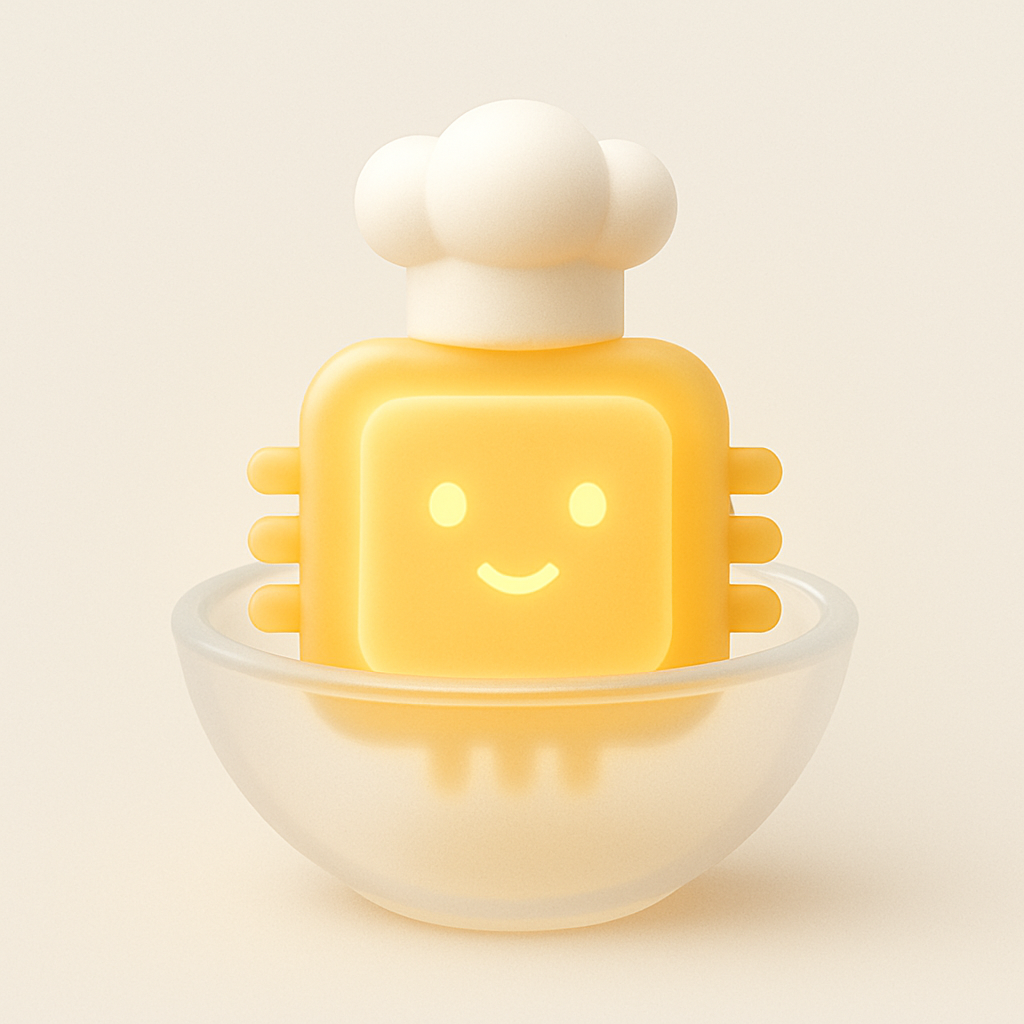
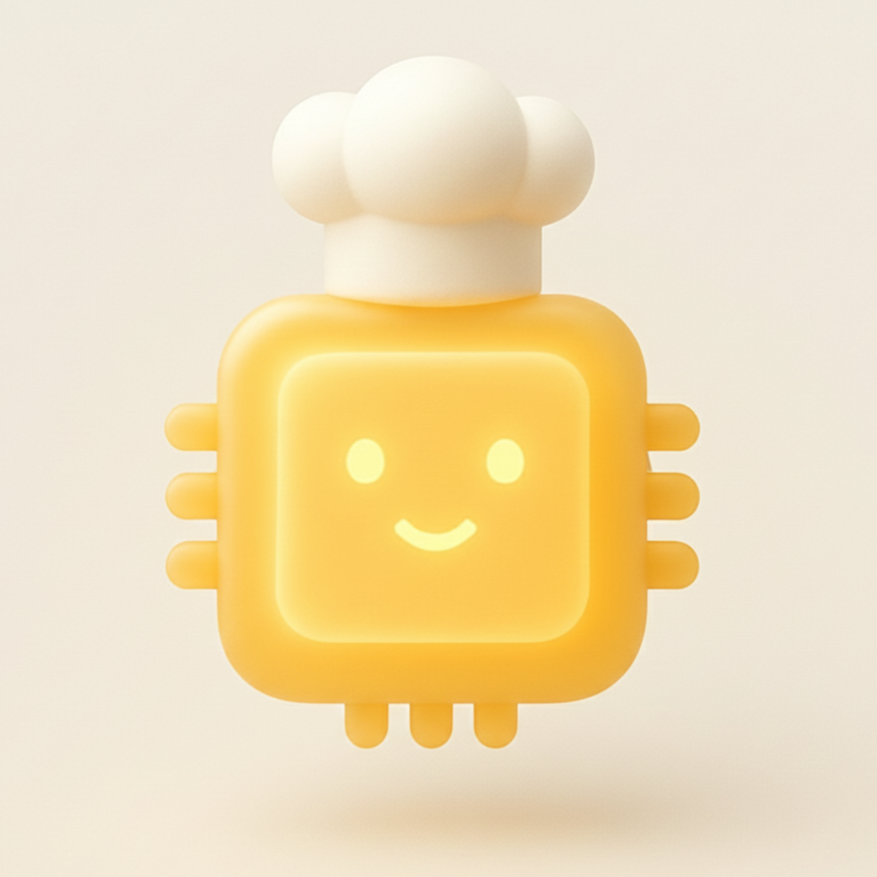
Feat: Chatbot
챗봇 UI 컴포넌트 구현
- ChatbotButton: 챗봇 열기 버튼 컴포넌트
- ChatbotAside: 채팅창 컨테이너 및 트랜지션 효과
- ChatbotWindow: 메인 채팅창 컴포넌트
  - 회원/비회원 채팅 API 연동
  - 채팅 히스토리 자동 로드
  - 자동 스크롤 및 부드러운 애니메이션
  - 타이핑 인디케이터 (점 3개 바운스 효과)
- ChatMessage: 메시지 말풍선 컴포넌트
  - 안내 메시지 전용 스타일 (isSuggest)
  - 마크다운 → HTML 렌더링 (marked)
  - USER/ASSISTANT 메시지 타입별 스타일링
- 챗봇 아바타 이미지 추가

Resolves: #26
Ref: #29

diff --git a/src/components/chat/ChatbotWindow.vue b/src/components/chat/ChatbotWindow.vue
@@ -20,10 +20,9 @@ const messageContainerRef = ref(null)
  * ========================= */
 const SUGGEST_MESSAGE = {
   role: 'ASSISTANT',
-  content: `안녕하세요! 저는 EAT:EUM의 요리 도우미, 이틈이에요 🌱
-서비스 이용 방법이나 요리와 관련된 궁금한 점을 안내해 드려요.
-
-편하게 질문해 주세요!`,
+  content: `당신의 요리 도우미 이틈이에요.
+서비스 이용 방법이나 궁금한 점을 안내해 드려요.`,
+  isSuggest: true,
 }
 
 /* =========================
@@ -115,11 +114,27 @@ onMounted(async () => {
   // 1⃣ 히스토리 먼저 로드
   await loadHistory()
 
-  // 2⃣ 히스토리까지 불러왔는데도 메시지가 없다면
-  if (chatbotStore.messages.length === 0 && !chatbotStore.hasShownSuggest) {
-    chatbotStore.addMessage(SUGGEST_MESSAGE.role, SUGGEST_MESSAGE.content)
-    chatbotStore.markSuggestShown()
+  // 2⃣ 안내 메시지가 없으면 맨 앞에 추가
+  const hasSuggestMessage = chatbotStore.messages.some(msg => msg.isSuggest)
+
+  if (!hasSuggestMessage) {
+    chatbotStore.messages.unshift({
+      role: SUGGEST_MESSAGE.role,
+      content: SUGGEST_MESSAGE.content,
+      isSuggest: SUGGEST_MESSAGE.isSuggest
+    })
   }
+
+  // 3⃣ 스크롤을 하단으로 이동
+  await nextTick()
+  setTimeout(() => {
+    if (messageContainerRef.value) {
+      messageContainerRef.value.scrollTo({
+        top: messageContainerRef.value.scrollHeight,
+        behavior: 'smooth'
+      })
+    }
+  }, 150)
 })
 
 /* =========================
@@ -130,7 +145,10 @@ watch(
   async () => {
     await nextTick()
     if (messageContainerRef.value) {
-      messageContainerRef.value.scrollTop = messageContainerRef.value.scrollHeight
+      messageContainerRef.value.scrollTo({
+        top: messageContainerRef.value.scrollHeight,
+        behavior: 'smooth'
+      })
     }
   },
 )
@@ -140,7 +158,10 @@ watch(
   async () => {
     await nextTick()
     if (messageContainerRef.value) {
-      messageContainerRef.value.scrollTop = messageContainerRef.value.scrollHeight
+      messageContainerRef.value.scrollTo({
+        top: messageContainerRef.value.scrollHeight,
+        behavior: 'smooth'
+      })
     }
   },
 )
@@ -153,11 +174,19 @@ watch(
     // DOM 렌더링 완료 대기
     await nextTick()
 
-    if (messageContainerRef.value) {
-      messageContainerRef.value.scrollTop = messageContainerRef.value.scrollHeight
-    }
+    // 추가 대기 (트랜지션/애니메이션 고려)
+    setTimeout(() => {
+      if (messageContainerRef.value) {
+        messageContainerRef.value.scrollTo({
+          top: messageContainerRef.value.scrollHeight,
+          behavior: 'smooth'
+        })
+      }
+    }, 150)
   },
+  { flush: 'post' }
 )
+
 </script>
 
 <template>
@@ -181,10 +210,16 @@ watch(
         :key="idx"
         :role="msg.role"
         :content="msg.content"
+        :isSuggest="msg.isSuggest"
       />
 
-      <div v-if="chatbotStore.isLoading" class="text-sm text-gray-500">
-        이틈이가 답변 중이에요...!
+      <div v-if="chatbotStore.isLoading" class="flex items-center gap-2">
+        <img src="../../assets/chatbot.png" alt="이틈이" class="h-6 w-6 rounded-full" />
+        <div class="flex gap-1">
+          <span class="text-gray-500 animate-bounce" style="animation-delay: 0ms;">•</span>
+          <span class="text-gray-500 animate-bounce" style="animation-delay: 150ms;">•</span>
+          <span class="text-gray-500 animate-bounce" style="animation-delay: 300ms;">•</span>
+        </div>
       </div>
     </section>
 

diff --git a/src/components/chat/ChatMessage.vue b/src/components/chat/ChatMessage.vue
@@ -1,9 +1,11 @@
 <script setup>
 import { computed } from 'vue'
+import { marked } from 'marked'
 
 const props = defineProps({
   role: String,
   content: String,
+  isSuggest: Boolean,
 })
 
 /**
@@ -28,6 +30,16 @@ const bubbleClass = computed(() => {
         shadow-[0_6px_14px_rgba(0,0,0,0.08)]
       `
 })
+
+/**
+ * 마크다운을 HTML로 변환
+ */
+const renderedContent = computed(() => {
+  if (props.role === 'ASSISTANT' && !props.isSuggest) {
+    return marked(props.content, { breaks: true })
+  }
+  return props.content
+})
 </script>
 
 <template>
@@ -37,7 +49,22 @@ const bubbleClass = computed(() => {
     enter-from-class="opacity-0 translate-y-2 scale-95"
     enter-to-class="opacity-100 translate-y-0 scale-100"
   >
-    <div class="flex items-end gap-2" :class="role === 'USER' ? 'justify-end' : 'justify-start'">
+    <!-- 안내 메시지 -->
+    <div v-if="isSuggest" class="rounded-2xl border border-[#E6DFC9] bg-[#FFF9E6] p-4 shadow-sm">
+      <div class="mb-2 flex items-center gap-1.5 text-sm font-semibold text-[#5A4E3F]">
+        🌱 반가워요!
+      </div>
+      <p class="text-sm leading-relaxed whitespace-pre-line text-[#5A4E3F]">
+        {{ content }}
+      </p>
+    </div>
+
+    <!-- 일반 메시지 -->
+    <div
+      v-else
+      class="flex items-end gap-2"
+      :class="role === 'USER' ? 'justify-end' : 'justify-start'"
+    >
       <!-- 챗봇 아바타 -->
       <img
         v-if="role === 'ASSISTANT'"
@@ -48,10 +75,19 @@ const bubbleClass = computed(() => {
 
       <!-- 말풍선 -->
       <div
-        class="max-w-[75%] rounded-2xl px-4 py-2 text-sm leading-relaxed whitespace-pre-line"
+        class="max-w-[75%] rounded-2xl px-4 py-2 text-sm leading-relaxed"
         :class="bubbleClass"
       >
-        {{ content }}
+        <!-- ASSISTANT 메시지는 마크다운 렌더링 -->
+        <div
+          v-if="role === 'ASSISTANT'"
+          class="prose prose-sm max-w-none prose-p:my-1 prose-ul:pl-4 prose-ol:pl-4"
+          v-html="renderedContent"
+        />
+        <!-- USER 메시지는 일반 텍스트 -->
+        <div v-else class="whitespace-pre-line">
+          {{ content }}
+        </div>
       </div>
     </div>
   </Transition>

diff --git a/src/components/chat/ChatbotAside.vue b/src/components/chat/ChatbotAside.vue
@@ -1,5 +1,4 @@
 <script setup>
-import ChatbotButton from './ChatbotButton.vue'
 import ChatbotWindow from './ChatbotWindow.vue'
 import { useChatbotStore } from '@/stores/chatbotStore.js'
 
@@ -8,15 +7,14 @@ const chatbotStore = useChatbotStore()
 
 <template>
   <aside class="fixed right-6 bottom-6 z-[9999]">
-    <ChatbotButton v-if="!chatbotStore.isOpen" />
 
     <Transition
-      enter-active-class="transition duration-300 ease-out"
-      enter-from-class="opacity-0 translate-y-6 scale-95"
-      enter-to-class="opacity-100 translate-y-0 scale-100"
-      leave-active-class="transition duration-200 ease-in"
-      leave-from-class="opacity-100 translate-y-0 scale-100"
-      leave-to-class="opacity-0 translate-y-6 scale-95"
+      enter-active-class="transition ease-out duration-300"
+      enter-from-class="translate-y-4 opacity-0"
+      enter-to-class="translate-y-0 opacity-100"
+      leave-active-class="transition ease-in duration-200"
+      leave-from-class="opacity-100"
+      leave-to-class="opacity-0 translate-y-4"
     >
       <ChatbotWindow v-if="chatbotStore.isOpen" />
     </Transition>

diff --git a/src/components/chat/ChatbotButton.vue b/src/components/chat/ChatbotButton.vue
@@ -1,15 +1,16 @@
 <script setup>
 import { Headset } from 'lucide-vue-next'
-import { useChatbotStore } from '@/stores/chatbotStore.js'
+import { useChatbotStore } from '@/stores/chatbotStore'
 
 const chatbotStore = useChatbotStore()
 </script>
 
 <template>
   <button
+    v-if="!chatbotStore.isOpen"
     @click="chatbotStore.open"
-    class="flex h-16 w-16 items-center justify-center rounded-full bg-[#FFE8A3] shadow-[0_8px_24px_rgba(0,0,0,0.18)] transition hover:scale-105"
+    class="fixed right-6 bottom-6 z-[60] flex h-14 w-14 items-center justify-center rounded-full bg-[#FFE8A3] shadow-lg hover:bg-[#FFDF85]"
   >
-    <Headset class="h-7 w-7 text-[#3E3B2F]" />
+    <Headset class="h-6 w-6 text-[#3E3B2F]" />
   </button>
 </template>
